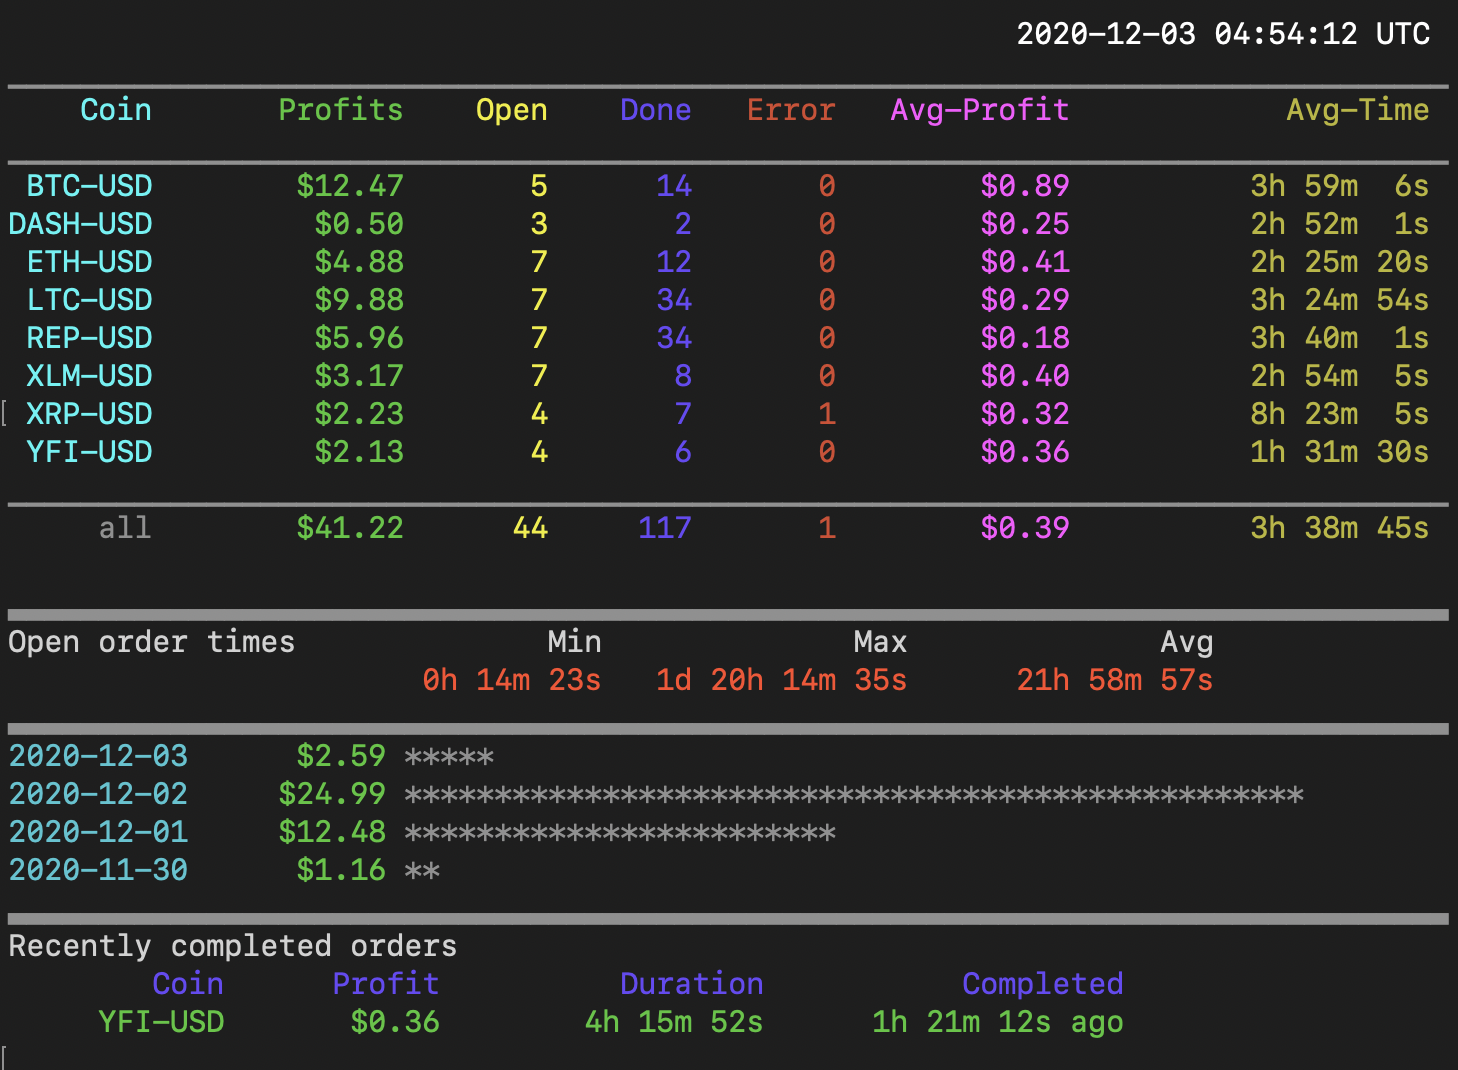
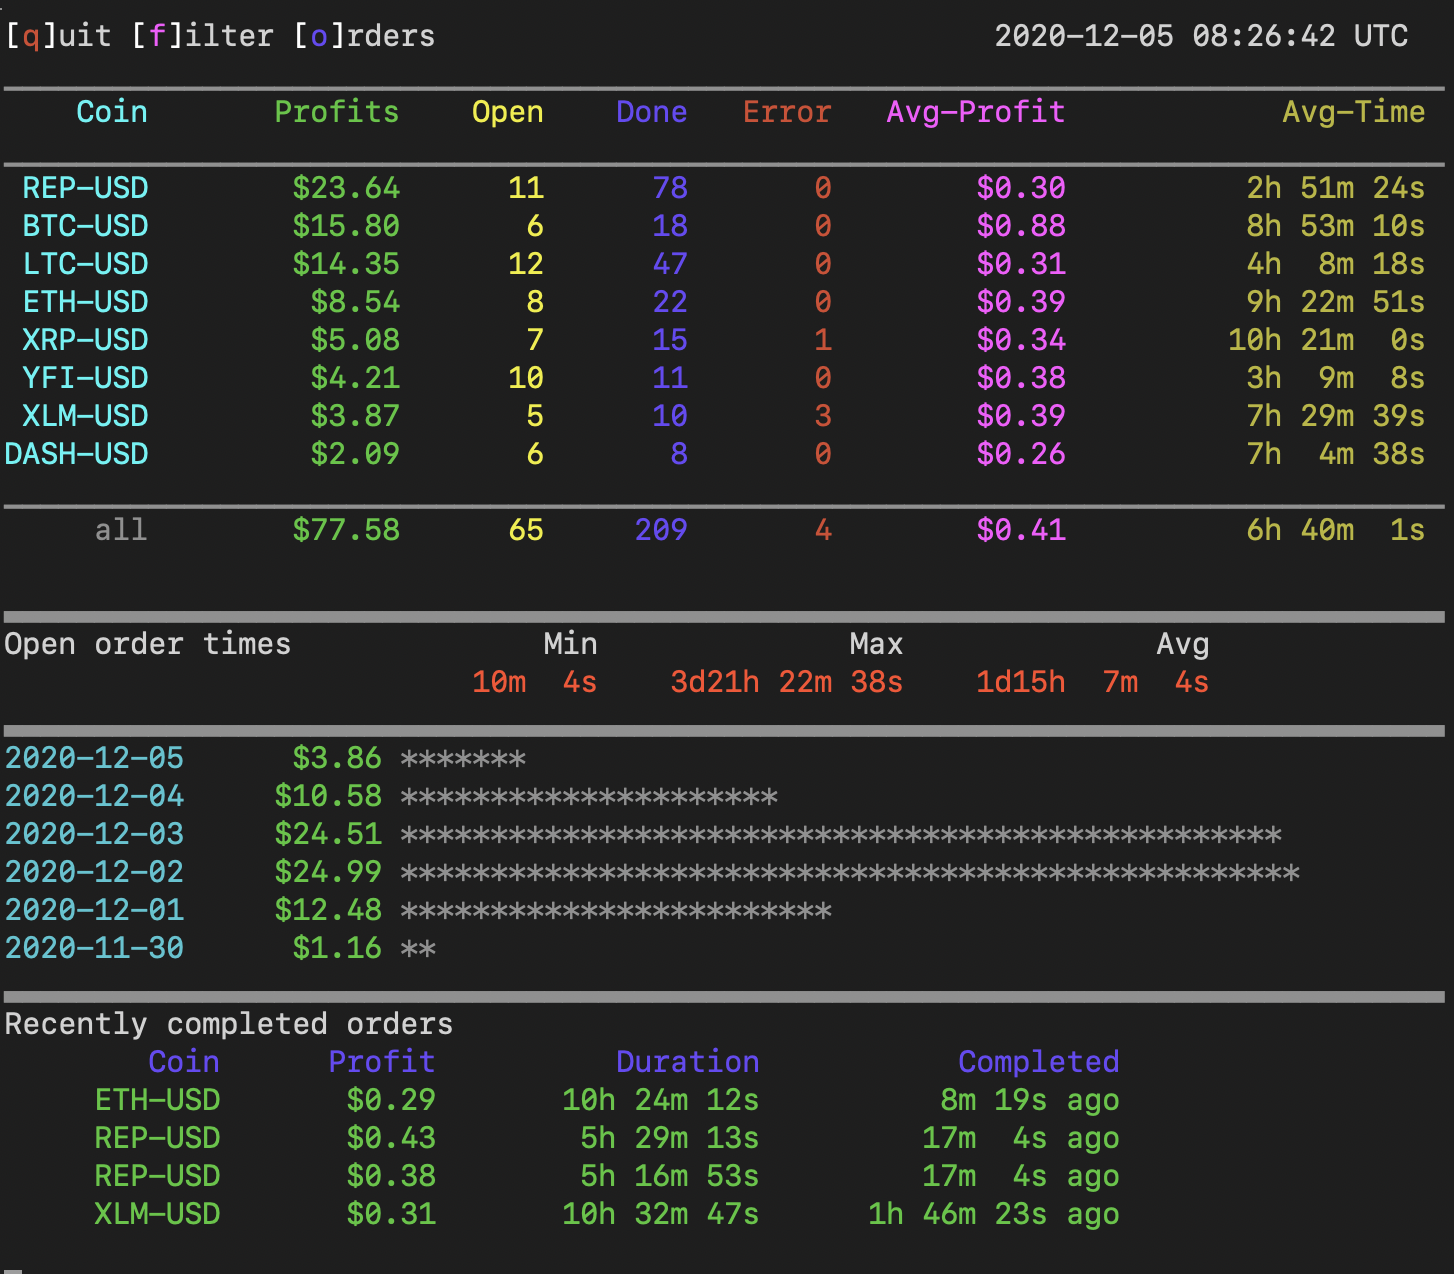
Add new simpletop screenshot

diff --git a/README.md b/README.md
@@ -63,4 +63,5 @@ Example usage:
 # Use all .cache files in cache/ directory
 simpletop cache/
 ```
-![Top Example](/top1.png)
+![simpletop](/top1.png)
+![simpletop orders and filter](/top2.png)
